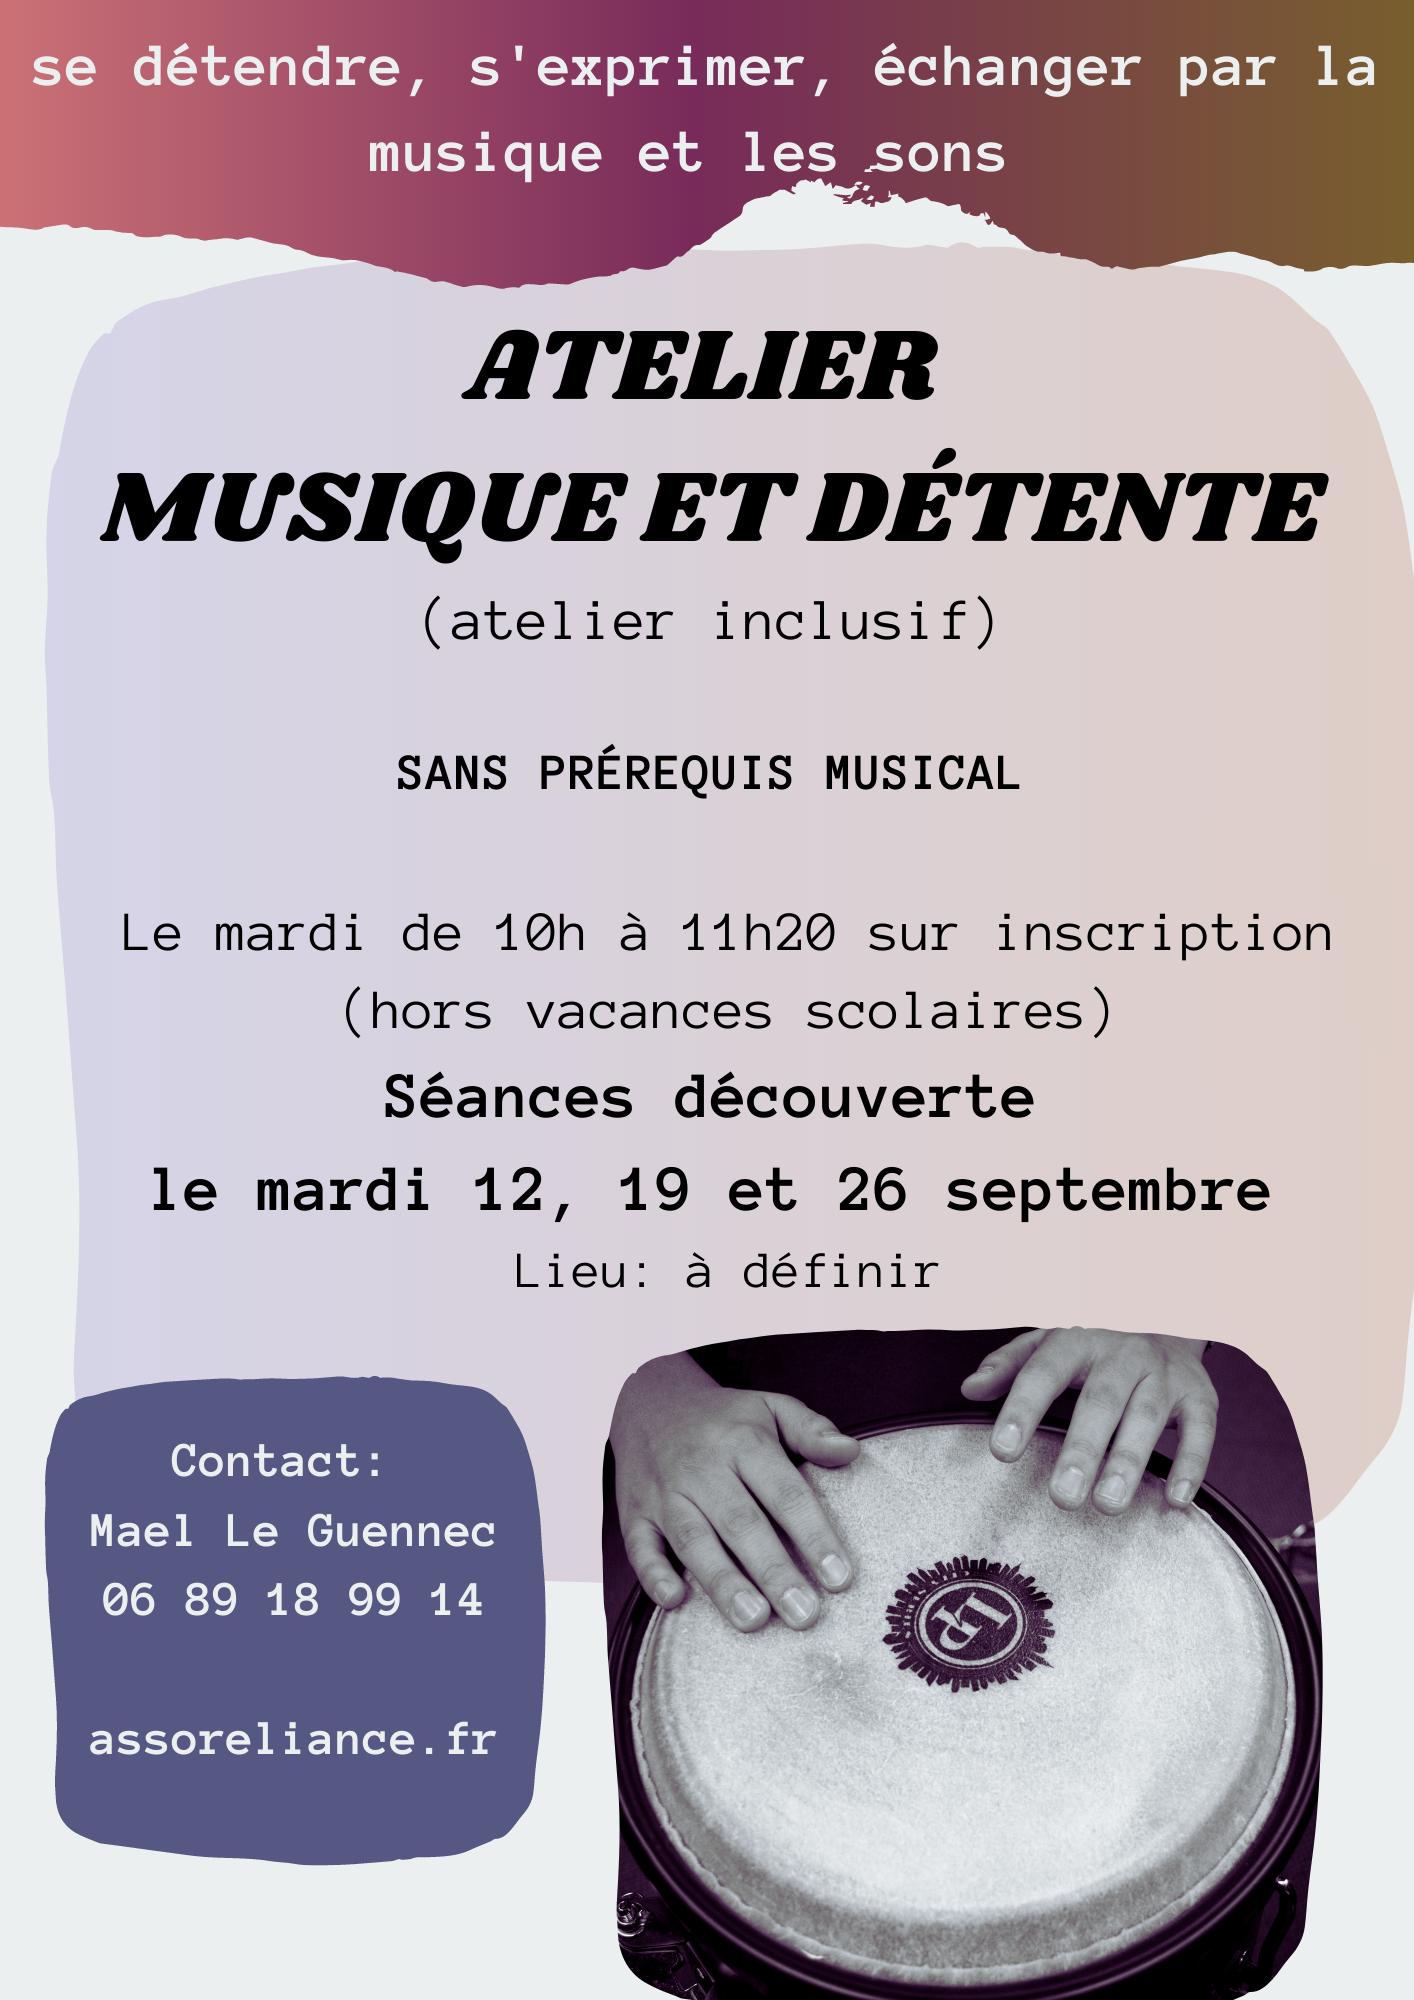
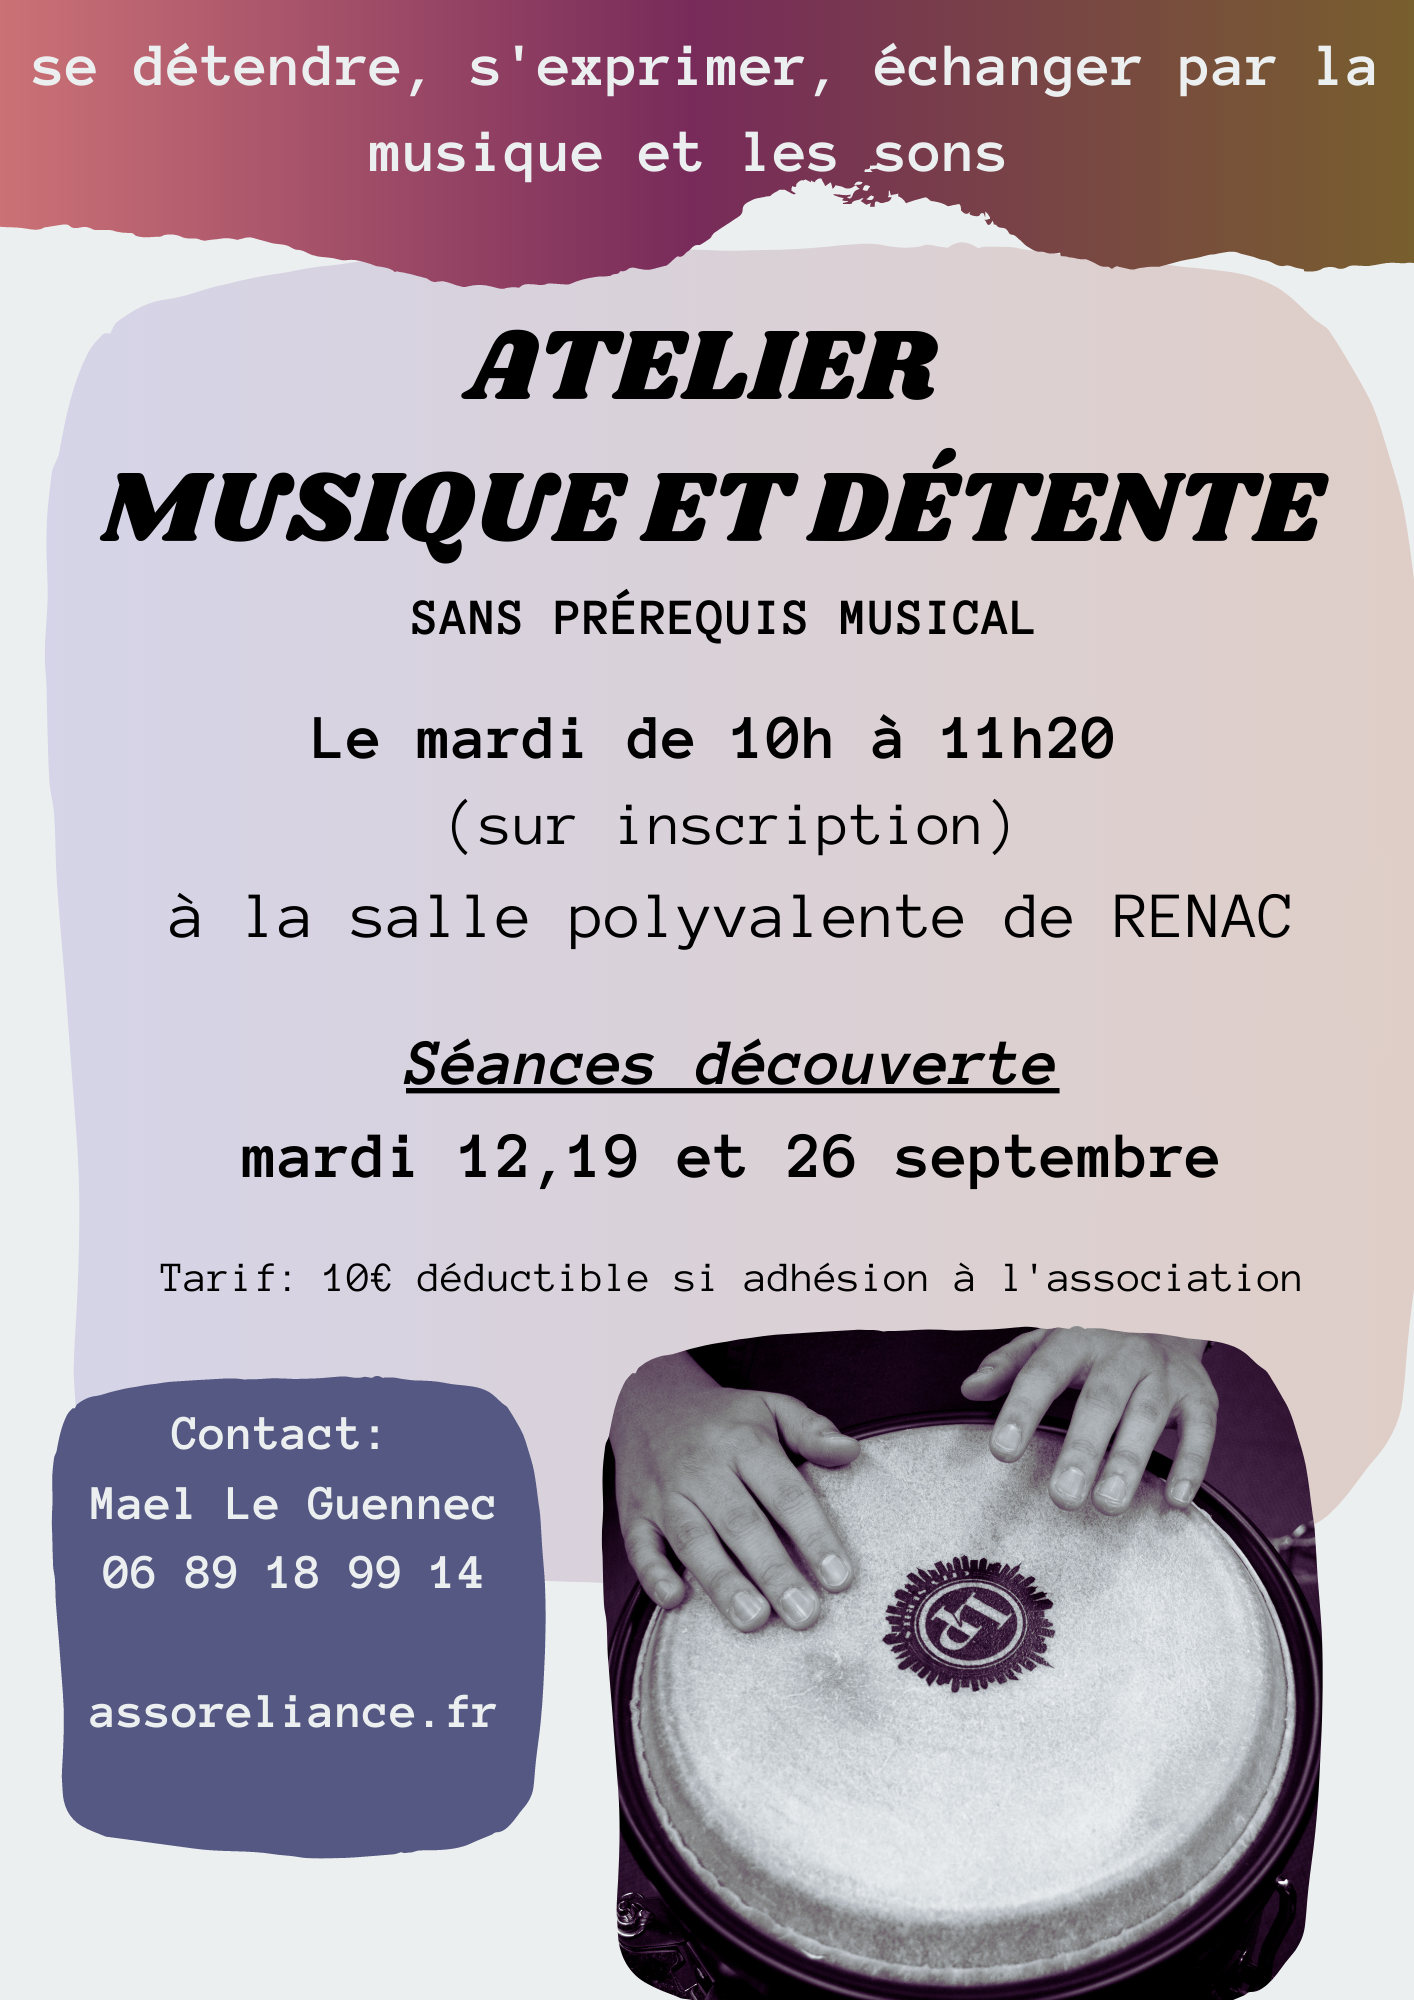
dernier changement mael

diff --git a/mael.html b/mael.html
@@ -93,23 +93,24 @@
     <br><br><br><br>
 
     <p>
-      <b>Ateliers musique adultes</b><br>
-      Se rencontrer pour communiquer par le son et se détendre, prendre confiance en 
-      soi, développer ses capacités, se relier aux autres. Nul besoin d’avoir « l’oreille 
+      <b>Ateliers musique et détente</b><br>
+      Echanger par le son et se détendre, prendre confiance en soi, développer ses capacités, 
+      se relier aux autres, jouer avec les sons. Nul besoin d’avoir « l’oreille 
       musicale » ni de « chanter juste ». Chacun peut, avec ses ressources et ses 
-      différences, s’exprimer par le son et y être sensible.
+      différences, s’exprimer par la musqiue et y être sensible.
       <br><br>
       Quelques exemples de propositions : écoute en mouvement, découverte et manipulation 
-      d’instruments, relaxation sonore, chant, improvisations collectives
+      d’instruments, relaxation sonore, chant, improvisations collectives...<br><br>
+      Atelier inclusif: Les personnes handicapées sont aussi les bienvenues.
       <br><br>
       <u>Aspects pratiques</u>
       <ul>
         <li>Le mardi de 10h à 11h20</li>
-        <li>Pour que l’activité ait lieu, il faut 5 personnes inscrites au minimum</li>
+        <li>Pour que l’activité ait lieu, il faut 4 personnes inscrites au minimum. Petit groupe de 8 personnes maximum.</li>
         <li>Engagement sur un trimestre (environ 10 séances) : 90 € par trimestre + adhésion de 10 € à l’association</li>
-        <li>Première séance gratuite, l’inscription se fait à la deuxième séance</li>
+        <li>Séance découverte : 10 € déductible de l'adhésion à l'association</li>
         <li>Pas de séances pendant les vacances scolaires</li>
-        <li>Lieu : salle polyvalente de Renac</li>
+        <li>Lieu : salle polyvalente de Renac (près de la mairie)</li>
       </ul>
     </p><br><br><br>
 
@@ -130,9 +131,9 @@
       <li>L’enfant ou les enfants seront accompagnés d’un parent ou d’une personne 
         proche, un seul adulte par enfant.</li>
       <li>Pour que l’activité ait lieu, il faut au minimum 3 binômes parent-enfant inscrits</li>
-      <li>Engagement sur cinq séances : 50 € soit 10 € la séance + adhésion annuelle 
+      <li>Forfait de cinq séances : 50 € soit 10 € la séance + adhésion annuelle 
         de 10 € à l’association</li>
-      <li>Première séance gratuite, l’inscription se fait à la deuxième séance</li>
+      <li>Séance découverte: 10 € déductible de l'adhésion à l'association</li>
       <li>Pas de séances pendant les vacances scolaires</li>
       <li>Lieu : à définir</li>
     </ul>
